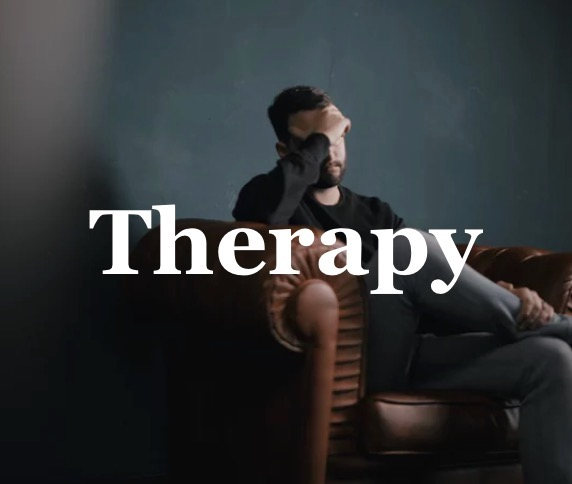
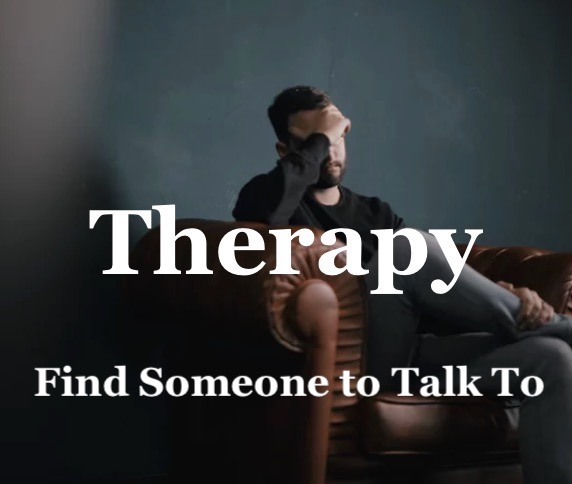
updating navbar
updating navbar

Changed region(s): [[0.0594, 0.7438, 0.951, 0.8368]]

diff --git a/mentalfloat/src/pages/splash.js b/mentalfloat/src/pages/splash.js
@@ -8,22 +8,23 @@ function App() {
   return (
     <div className="App">
       <header className="App-header">
-        <img src="/mindfloat.jpeg" className="App-logo" alt="logo" />
+        <img src="/mentalfloat.png" className="App-logo" alt="logo" />
         </header>
         <h1>How are you looking to feel better today?</h1>
         <h2></h2>
         <div class="row">
         <div class="column">
-        <Button text='Alternative Sleep Support' src="/sleep.jpeg" href="/sleep"/>
-        <Button text='Take a Moment to Meditate' src="/meditate.jpeg" href= "/meditate"/>
+        <Button src="/meditate.jpeg" href= "/meditate"/>
+        <Button src="/motivation.jpeg" href= "/motivation"/>
         </div>
         <div class="column">
-        <Button text='Read Something Motivational' src="/motivation.jpeg" href= "/motivation"/>
-        <Button text='Find Someone to Talk To' src="/therapy.jpeg" href= "/therapy"/>
+
+        <Button src="/sleep.jpeg" href="/sleep"/>
+        <Button src="/therapy.jpeg" href= "/therapy"/>
         </div>
         <div class="column">
-        <Button text='Get Moving' src="/workout.jpeg" href= "/workout"/>
-        <Button text='Get Outside' src="/outside.jpeg" href= "/outside"/>
+        <Button src="/workout.png" href= "/workout"/>
+        <Button src="/outside.png" href= "/outside"/>
         </div>
         </div>
 

diff --git a/mentalfloat/src/pages/outside.js b/mentalfloat/src/pages/outside.js
@@ -1,14 +1,30 @@
 import React from 'react';
 import '../App.css';
+import { Map, GoogleApiWrapper } from 'google-maps-react';
+
+// render() {
+//   return (
+//       <Map
+//         google={this.props.google}
+//         zoom={8}
+//         style={mapStyles}
+//         initialCenter={{ lat: 47.444, lng: -122.176}}
+//       />
+//   );
+// }
+
+// export default GoogleApiWrapper({
+//   apiKey: 'AIzaSyCWL27bkwx4JyK9jrnycKqTnc44rtYDSaw'
+// })(MapContainer);
+
 
 function OutsidePage() {
   return (
     <div className="App">
       <header className="App-header">
-        <img src="/mindfloat.jpeg" className="App-logo" alt="logo" />
+      <img src="/mentalfloat.png" className="App-logo" alt="logo" />
         </header>
         <h1>Outside</h1>
-        <h2></h2>
     </div>
   );
 }

diff --git a/mentalfloat/src/App.css b/mentalfloat/src/App.css
@@ -1,15 +1,16 @@
 .App {
   text-align: center;
-  background-color:#5B8790;
+  background-color:#89B0B8;
 }
 
 .App-logo {
-  height: 40vmin;
+  height: 20vmin;
+  width: 200vmin;
 }
 
 .App-header {
   background-color: #AAE0DF;
-  min-height: 40vh;
+  min-height: 19vh;
   display: flex;
   flex-direction: column;
   align-items: center;
@@ -41,6 +42,6 @@
 }
 
 h1 {
-  color: tan;
+  color: whitesmoke;
   font-family: Georgia, 'Times New Roman', Times, serif;
 }

diff --git a/mentalfloat/src/pages/motivation.js b/mentalfloat/src/pages/motivation.js
@@ -5,7 +5,7 @@ function MotivationPage() {
   return (
     <div className="App">
       <header className="App-header">
-        <img src="/mindfloat.jpeg" className="App-logo" alt="logo" />
+      <img src="/mentalfloat.png" className="App-logo" alt="logo" />
         </header>
         <h1>Motivation</h1>
         <h2></h2>
@@ -13,4 +13,4 @@ function MotivationPage() {
   );
 }
 
-export default MotivationPage;
+export default MotivationPage; 

diff --git a/mentalfloat/src/components/navbar.js b/mentalfloat/src/components/navbar.js
@@ -19,6 +19,8 @@ function NavBar() {
         <NavDropdown.Item href="/motivation">Motivation</NavDropdown.Item>
         <NavDropdown.Item href="/meditate">Meditate</NavDropdown.Item>
         <NavDropdown.Item href="/therapy">Therapy</NavDropdown.Item>
+        <NavDropdown.Item href="/hike">Hike</NavDropdown.Item>
+        <NavDropdown.Item href="/workout">Workout</NavDropdown.Item>
       </NavDropdown>
     </Nav>
    

diff --git a/mentalfloat/src/pages/exercise.js b/mentalfloat/src/pages/exercise.js
@@ -5,7 +5,7 @@ function ExercisePage() {
   return (
     <div className="App">
       <header className="App-header">
-        <img src="/mindfloat.jpeg" className="App-logo" alt="logo" />
+      <img src="/mentalfloat.png" className="App-logo" alt="logo" />
         </header>
         <h1>Exercise</h1>
         <h2></h2>

diff --git a/mentalfloat/src/pages/meditate.js b/mentalfloat/src/pages/meditate.js
@@ -5,7 +5,7 @@ function MeditatePage() {
   return (
     <div className="App">
       <header className="App-header">
-        <img src="/mindfloat.jpeg" className="App-logo" alt="logo" />
+      <img src="/mentalfloat.png" className="App-logo" alt="logo" />
         </header>
         <h1>Meditate</h1>
         <h2></h2>

diff --git a/mentalfloat/src/pages/therapy.js b/mentalfloat/src/pages/therapy.js
@@ -5,7 +5,7 @@ function TherapyPage() {
   return (
     <div className="App">
       <header className="App-header">
-        <img src="/mindfloat.jpeg" className="App-logo" alt="logo" />
+      <img src="/mentalfloat.png" className="App-logo" alt="logo" />
         </header>
         <h1>Therapy</h1>
         <h2></h2>

diff --git a/mentalfloat/src/pages/sleep.js b/mentalfloat/src/pages/sleep.js
@@ -5,7 +5,7 @@ function SleepPage() {
   return (
     <div className="App">
       <header className="App-header">
-        <img src="/mindfloat.jpeg" className="App-logo" alt="logo" />
+      <img src="/mentalfloat.png" className="App-logo" alt="logo" />
         </header>
         <h1>Sleep</h1>
         <h2></h2>
